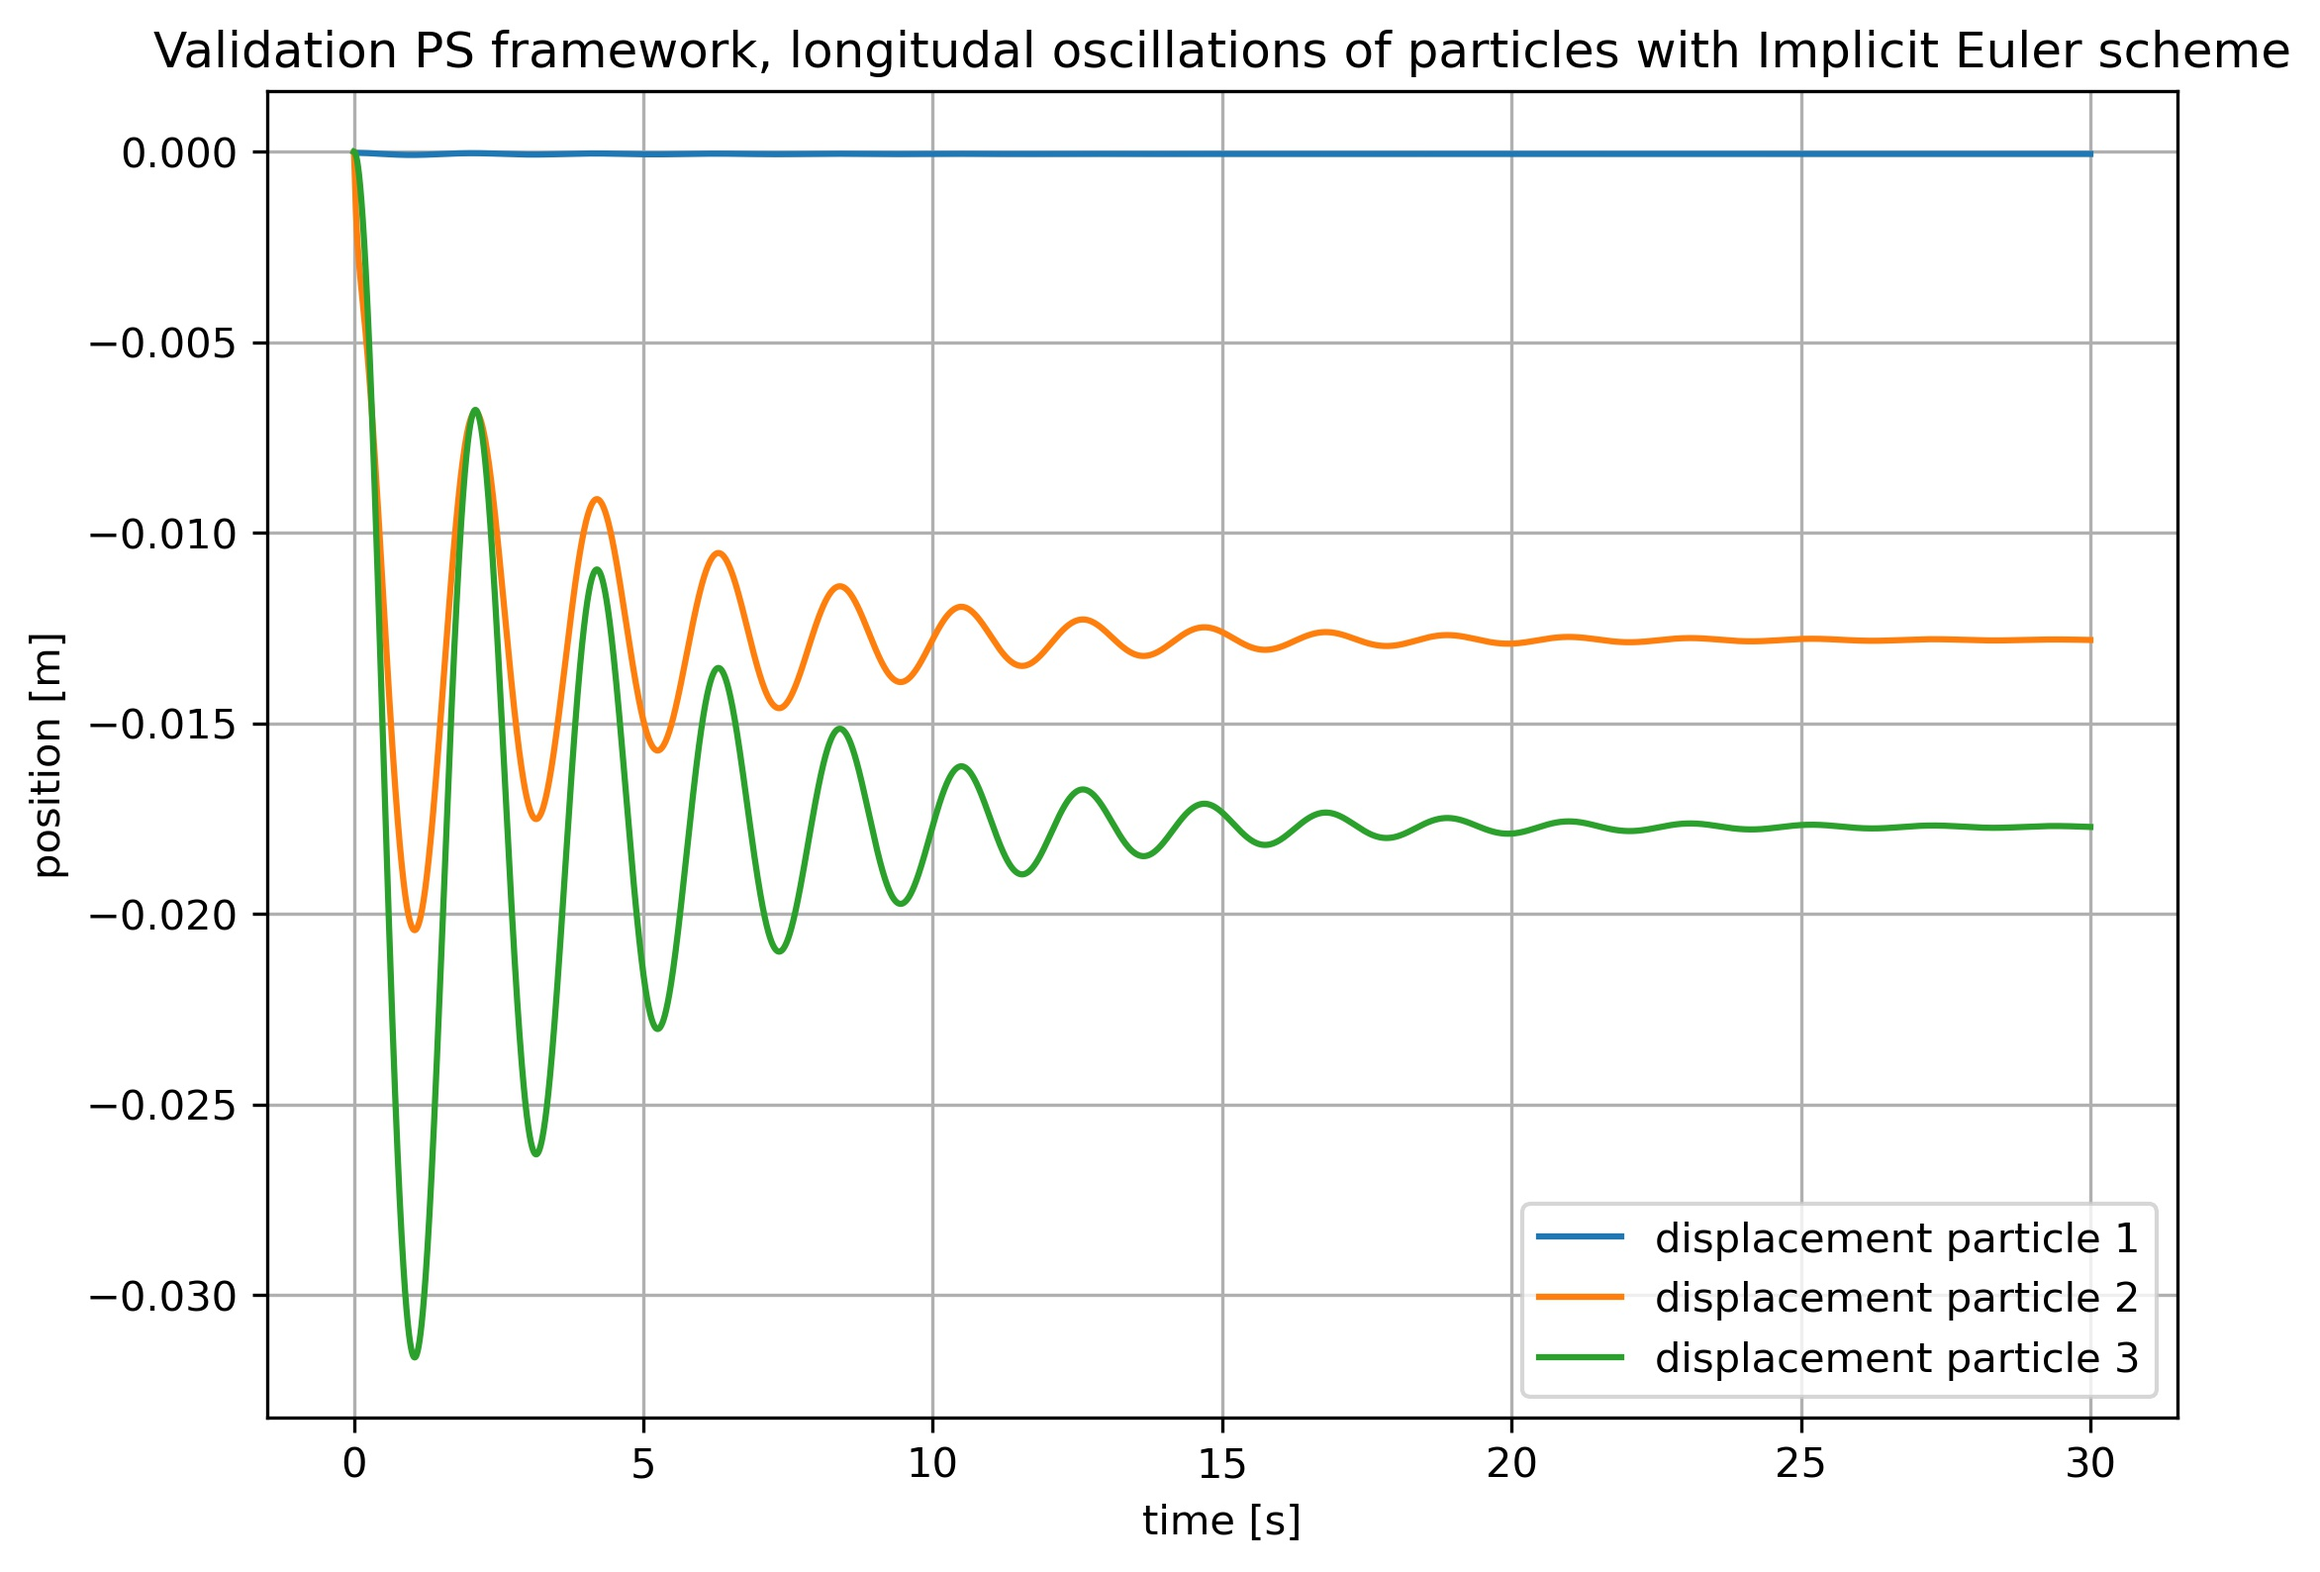
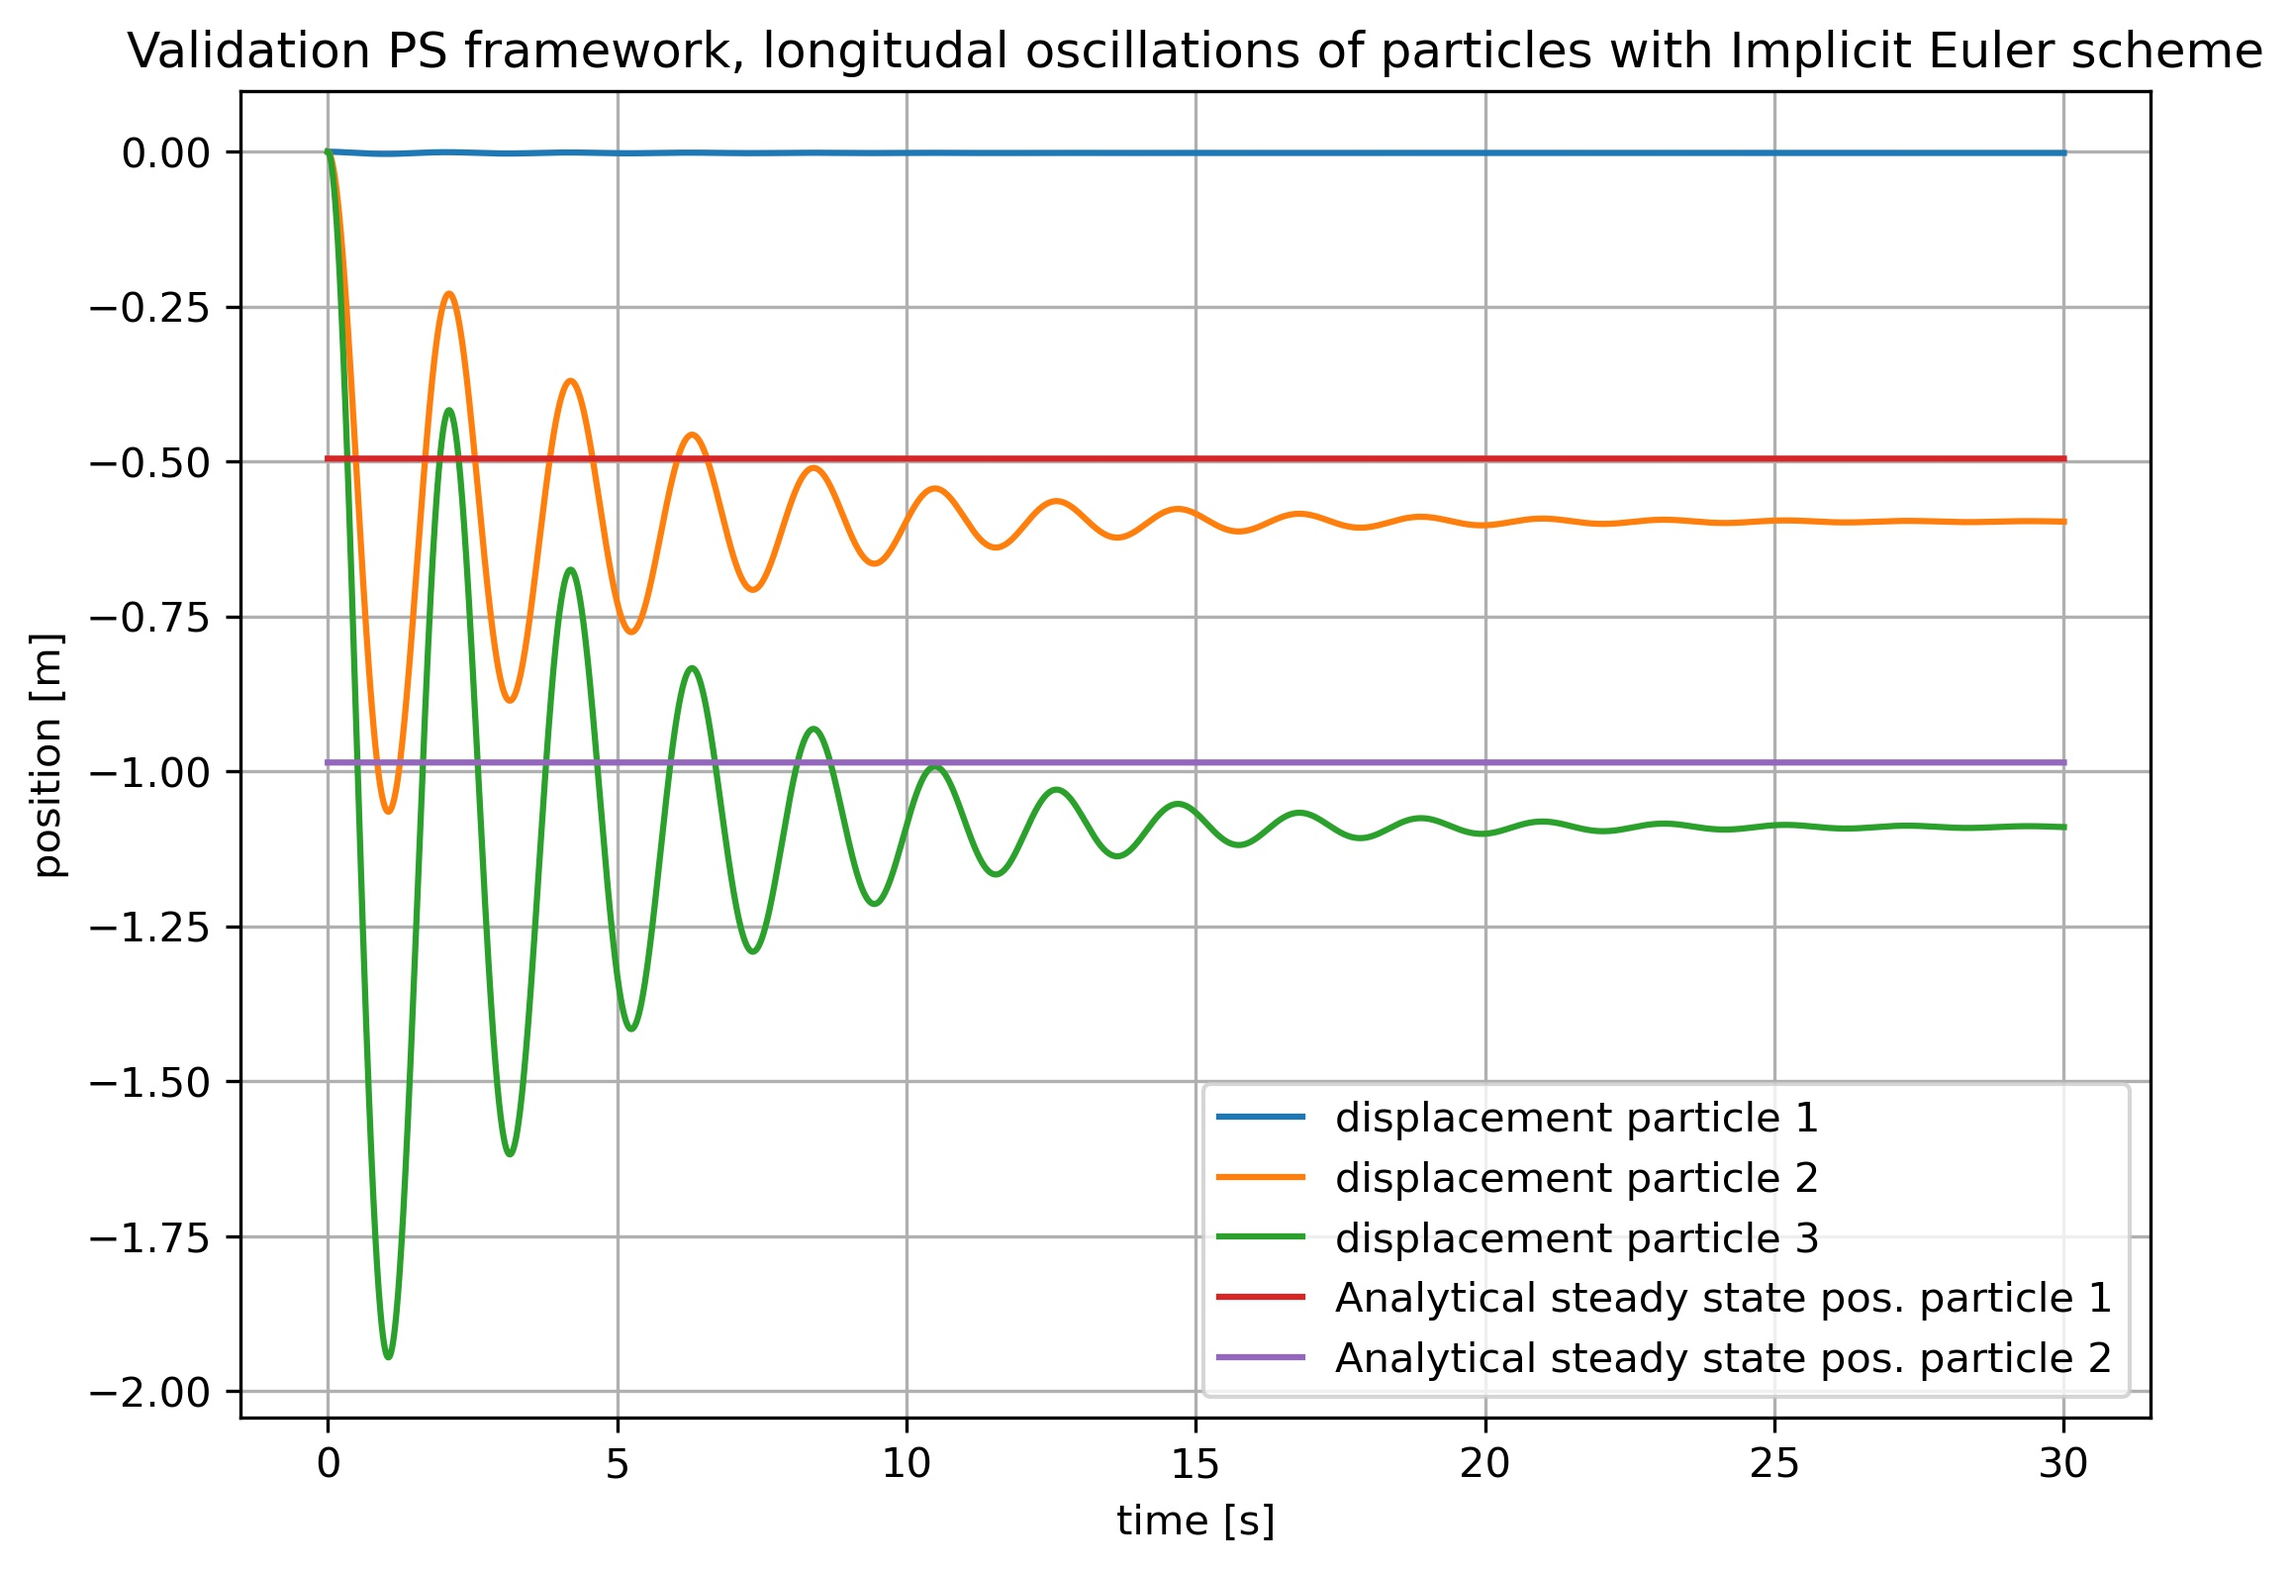
Beginnings of analytical solution longitudal oscillations
Needs more thought, results vary depending on damping coëfficient. Frits already mentioned high values of c could change the steady-state solution. Have to check whether this is currently the case or if something is wrong with the implementation.

diff --git a/code_Validation/tether_longitudal_oscillations/tether_longitudal_oscillations.py b/code_Validation/tether_longitudal_oscillations/tether_longitudal_oscillations.py
@@ -20,11 +20,19 @@ def exact_solution(t_vector: npt.ArrayLike):
     k = input.params["k"]
     c = input.params["c"]
     n = input.params["n"]
+    g = input.params["g"]
     m = [input.init_cond[i][-2] for i in range(n)]
 
-    omega = np.sqrt(k / m)
-    dx = 0
-    exact_x = [np.ones(len(t_vector)) * dx[i] for i in range(n)]
+    omega = np.sqrt(k / np.sum(m))
+
+    # construct DataFrame with length of t_vector to store steady state particle displacement (x" = 0, x' = 0)
+    x = {f"steady_state_p{i + 1}": np.zeros(len(t_vector)) for i in range(n - 1)}
+    exact_x = pd.DataFrame(index=t_vector, columns=x)
+
+    steady_state_displacement = np.array([np.sum(m[i + 1:]) * -g / (k / (i + 1)) for i in range(n - 1)])
+
+    for step in t_vector:
+        exact_x.loc[step] = steady_state_displacement
 
     # Estimated (expected) decay rate of implicit Euler scheme as a function of t
     dt = input.params['dt']
@@ -32,7 +40,7 @@ def exact_solution(t_vector: npt.ArrayLike):
 
     zeta = c/(2 * omega)        # critical damping faction
 
-    # Analytical solution depends on value of zeta
+    # (Estimated) system damping, based on
     if zeta <1:
         print("system is underdamped")
     elif zeta == 1:
@@ -62,23 +70,27 @@ def plot(psystem: ParticleSystem):
 
     g = input.params["g"]
     n = input.params["n"]
-    f_ext = np.array([[0, 0, -g] for i in range(n)]).flatten()
+
+    m = [input.init_cond[i][-2] for i in range(n)]
+    f_ext = np.array([[0, 0, -g * m[i]] for i in range(n)]).flatten()
 
     for step in t_vector:           # propagating the simulation for each timestep and saving results
         position.loc[step], velocity.loc[step] = psystem.simulate(f_ext)
 
     # generating analytical solution for the same time vector
-    # exact, decay = exact_solution(t_vector)
+    exact, decay = exact_solution(t_vector)
 
     # plotting & graph configuration
-    for i in range(n):
+    for i in range(1, n):
         position[f"z{i + 1}"] -= input.init_cond[i][0][-1]
         position[f"z{i + 1}"].plot()
-    # plt.plot(t, exact)
+
+    plt.plot(t_vector, exact)
     plt.xlabel("time [s]")
     plt.ylabel("position [m]")
     plt.title("Validation PS framework, longitudal oscillations of particles with Implicit Euler scheme")
-    plt.legend([f"displacement particle {i + 1}" for i in range(n)])
+    plt.legend([f"displacement particle {i + 2}" for i in range(n - 1)] +
+               [f"Analytical steady state pos. particle {i + 2}" for i in range(n - 1)])
     plt.grid()
 
     # saving resulting figure

diff --git a/code_Validation/tether_longitudal_oscillations/tether_longitudal_oscillations_input.py b/code_Validation/tether_longitudal_oscillations/tether_longitudal_oscillations_input.py
@@ -12,25 +12,26 @@ def connectivity_matrix(n: int):
 def initial_conditions(l0: float, n: int, m_segment: float, m_block: float):
     conditions = [[[0, 0, (n-1)*l0-i*l0], [0, 0, 0], m_segment, False] for i in range(n)]
     conditions[0][-1] = True       # Set top end of tether to fixed
-    conditions[-1][-2] += m_block
+    conditions[0][-2] -= 0.5 * m_segment
+    conditions[-1][-2] += m_block - 0.5 * m_segment
     return conditions
 
 
 # dictionary of required parameters
 params = {
     # model parameters
-    "n": 9,                         # [-] number of particles
+    "n": 5,                         # [-] number of particles
     "k": 1e3,                       # [N/m] spring stiffness
-    "c": 100,                         # [N s/m] damping coefficient
+    "c": 10,                         # [N s/m] damping coefficient
     "L": 10,                        # [m] tether length
     "m_block": 100,                  # [kg] mass attached to end of tether
     "rho_tether": 0.1,              # [kg/m] mass density tether
 
     # simulation settings
     "dt": 0.001,                    # [s] simulation timestep
-    "t_steps": 10000,                # [-] number of simulated time steps
-    "abs_tol": 1e-50,               # [m/s] absolute error tolerance iterative solver
-    "rel_tol": 1e-5,                # [-] relative error tolerance iterative solver
+    "t_steps": 50000,                # [-] number of simulated time steps
+    "abs_tol": 1e-5,                # [m/s] absolute error tolerance iterative solver
+    "rel_tol": 1e-4,                # [-] relative error tolerance iterative solver
     "max_iter": 1e5,                # [-] maximum number of iterations
 
     # physical parameters
@@ -45,4 +46,11 @@ params["k"] = params["k"] * (params["n"] - 1)           # segment stiffness
 c_matrix = connectivity_matrix(params['n'])
 init_cond = initial_conditions(params["l0"], params["n"], params["m_segment"], params["m_block"])
 
-# print(init_cond)
+m = [init_cond[i][-2] for i in range(params['n'])]
+params["c"] = 2 * np.sqrt(params['k'] / np.sum(m))
+
+# print(init_cond, params["k"])
+# print([params["k"] / (i + 1) for i in range(params["n"] - 1)])
+# m = [init_cond[i][-2] for i in range(params['n'])]
+# print(m)
+# print([sum(m[i + 1:]) for i in range(params["n"] - 1)])
